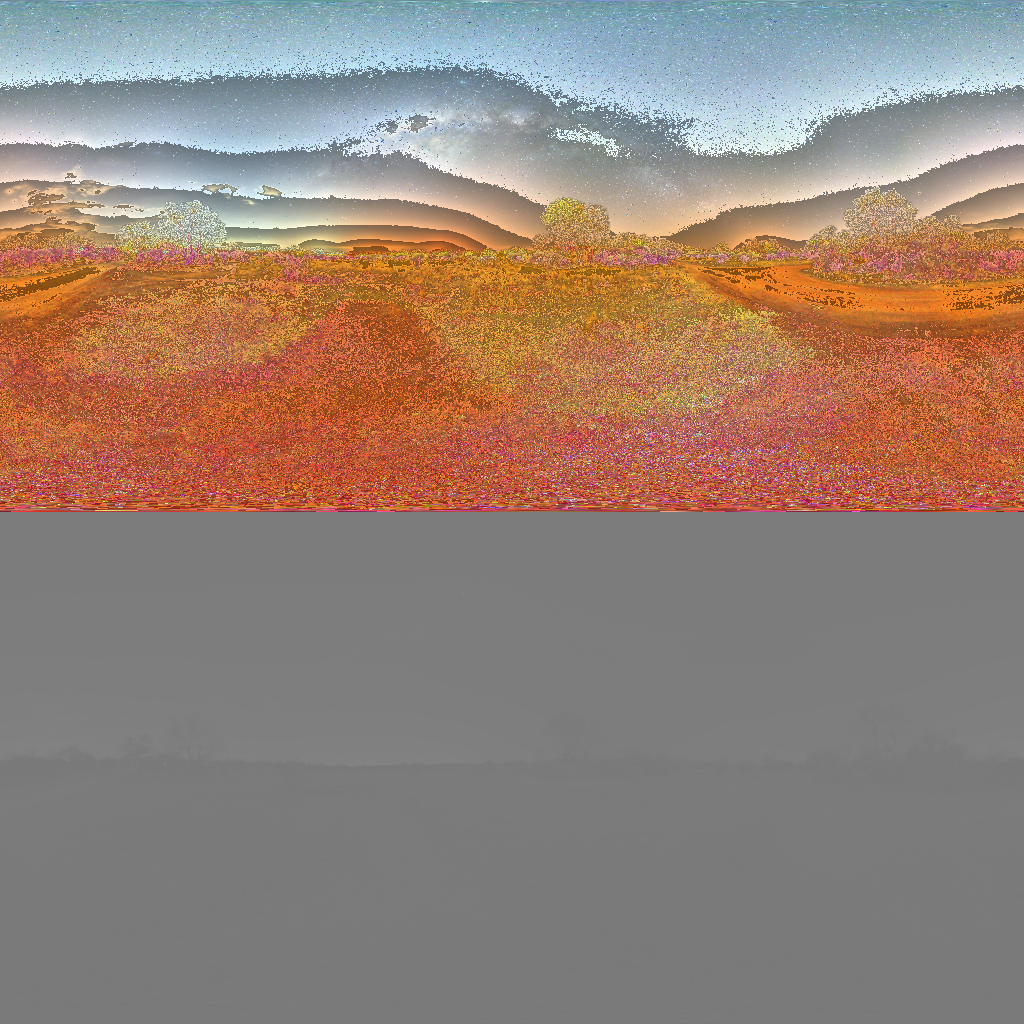
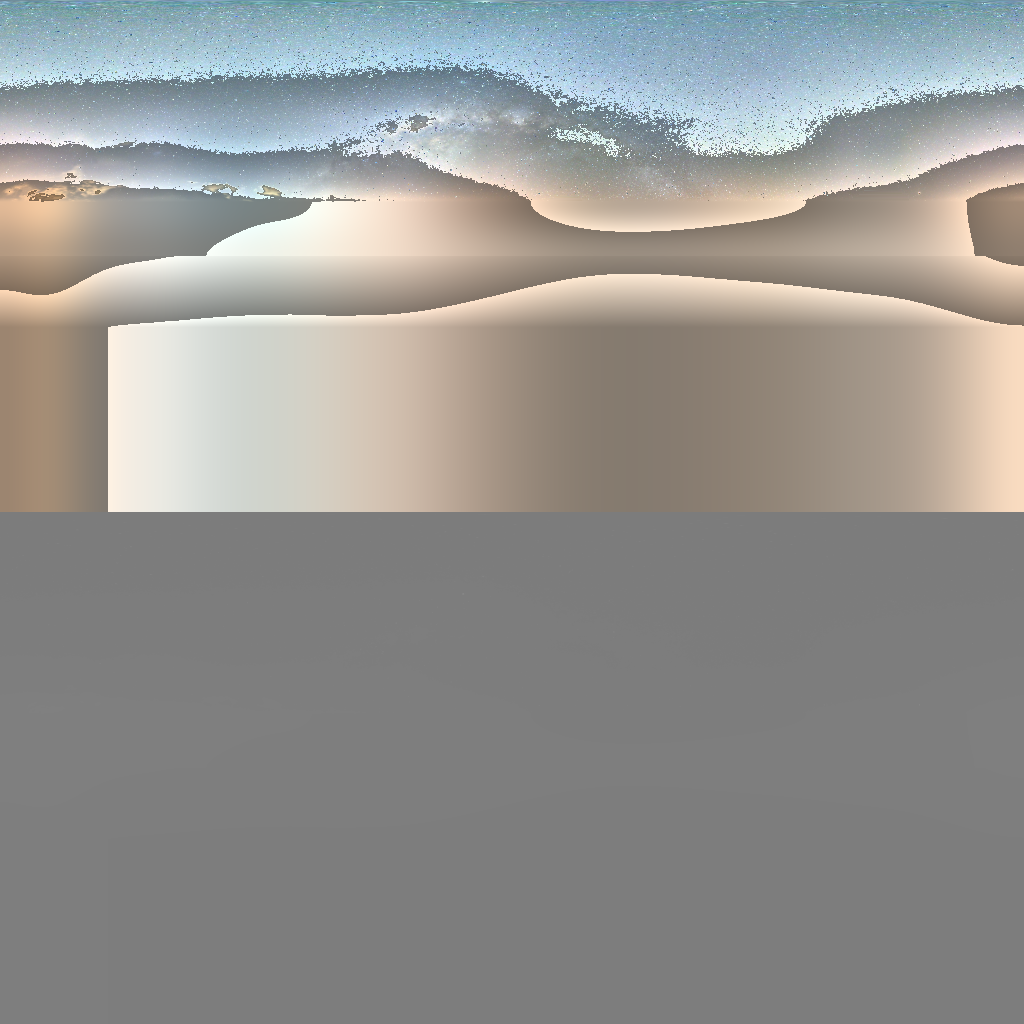
하늘에서 건물 제거, Supabase로 포스트잇 공유
- 마포 하늘을 건물 없는 해돋이 하늘로 교체, 모든 지역 하늘에서 지평선 아래 건물·나무·땅 제거
- 포스트잇 쓰기·수정·삭제·공감·신고를 Supabase 서버 함수로 연결 (30초마다 새로고침)
- 서버에서 욕설 필터, 하루 3장 제한, 신고 3회 숨김을 다시 검사
- 연결이 안 되면 기기에만 저장

Claude-Session: https://claude.ai/code/session_018BVTovwP8Kv17rptddpdNd

Changed region(s): [[0.0, 0.1875, 1.0, 0.5]]

diff --git a/index.html b/index.html
@@ -161,7 +161,7 @@
   <div class="sheet" role="dialog" aria-labelledby="reportTitle">
     <div class="row"><h2 id="reportTitle">이 포스트잇 신고하기</h2>
       <button class="close" data-close="reportScrim" aria-label="닫기"><svg width="18" height="18" viewBox="0 0 24 24" fill="none" stroke="currentColor" stroke-width="2.2" stroke-linecap="round" aria-hidden="true"><path d="M6 6l12 12"/><path d="M18 6L6 18"/></svg></button></div>
-    <p class="muted">신고한 포스트잇은 바로 내 화면에서 사라져요.</p>
+    <p class="muted">신고한 포스트잇은 바로 내 화면에서 사라지고, 세 명이 신고하면 모두에게서 내려가요.</p>
     <div class="regions" id="reasons">
       <button class="region" data-reason="abuse"><div><b>욕설·비하·혐오</b><span>기분 나쁜 말이나 그림이 있어요</span></div></button>
       <button class="region" data-reason="spam"><div><b>광고·도배</b><span>홍보, 링크, 같은 내용 반복</span></div></button>
@@ -219,33 +219,33 @@ var FONT = {}; FONTS.forEach(function(f){ FONT[f.id]=f; });
 function fontCss(tx, S){ var f = FONT[tx.f||'pen']||FONTS[0]; return (tx.s*S*f.k)+'px '+f.css; }
 
 var REGIONS = [
-  {id:'mapo', name:'서울 마포', scene:'한강 노을 호숫가', lat:37.556, lng:126.91,
+  {id:'mapo', name:'서울 마포', scene:'한강 가을 호숫가', lat:37.556, lng:126.91,
    sky:['#33416f','#f0a06a','#b8826a'], sun:[0.15,0.07,-1], sunCol:'#ffc98a', sunI:0.95, hemi:['#ffd0a0','#3d4a33'],
    fog:'#e2a985', fogN:28, fogF:240, ground:'#6a8549', grassBase:'#3f5a2c', grassTip:'#b7b45a', flower:'#f7e6a0', flowerP:0.05,
    water:'lake', deep:'#3f5a80', shallow:'#f1b98c', trees:46, treeKind:'autumn', motes:'firefly', lamp:true, bloom:0.55,
-   cut:13, flora:{common:52, tint:['#e8a03a','#f2c84b','#d9622e','#c4503a','#a8b44e','#e9b23f'], bush:22, bushf:10, rocks:8, flowers:14, plants:6, grassTint:'#efe2a8', clumps:1}, 
-   hdri:'venice_sunset_1k', rot:0.0764, elev:3.3, az:0.15, skyI:1.0, hor:[0.652,0.676,0.777], up:[0.384,0.565,0.991], low:[0.30,0.24,0.18], lightI:2.2, lightCol:[1,0.62,0.38], lightElev:12, exp:0.55, fogN2:30, fogF2:230,
+   cut:1.5, flora:{common:52, tint:['#e8a03a','#f2c84b','#d9622e','#c4503a','#a8b44e','#e9b23f'], bush:22, bushf:10, rocks:8, flowers:14, plants:6, grassTint:'#efe2a8', clumps:1}, 
+   hdri:'blouberg_sunrise_2_1k', rot:0.5325, elev:8.3, az:0.15, skyI:1.0, hor:[1.113,1.143,1.065], up:[0.488,0.562,0.767], low:[0.562,0.53,0.485], lightI:2.2, lightCol:[1,0.84,0.62], lightElev:14, exp:0.55, fogN2:30, fogF2:230,
    notes:[['한강 노을 보러 왔다가 들렀어요','y',0.1,4],['망원시장 떡볶이 최고','o',0.2,12],['오늘 퇴사했어요 후련하다','p',0.05,31],['다들 오늘도 수고했어','m',0.3,18],['연남동 산책 중','b',0.85,1],['내년엔 꼭 독립한다','y',0.4,7],['여기 앉아 있으니 좋다','m',0.15,9],['여름에 왔다 감','o',0.95,2]]},
   {id:'busan', name:'부산 해운대', scene:'해운대 밤바다', lat:35.163, lng:129.163,
    sky:['#0d1736','#3b4c86','#161d38'], sun:[-0.35,0.22,-1], sunCol:'#dfe6ff', sunI:0.35, hemi:['#6a7ab8','#1a1f2c'],
    fog:'#26315a', fogN:30, fogF:260, ground:'#3b5040', sand:'#b8a27c', grassBase:'#24352a', grassTip:'#55704e', flower:'#e8eaf6', flowerP:0.02,
    water:'sea', deep:'#0f2244', shallow:'#5b6ea6', trees:22, treeKind:'pine', motes:'firefly', lamp:true, bloom:0.9,
-   cut:13, flora:{pine:30, bush:16, rocks:16, plants:4, grassTint:'#8fa894', clumps:0.8}, 
-   hdri:'dikhololo_night_1k', rot:0.8877, elev:0.9, az:-0.3, skyI:1.0, hor:[0.222,0.173,0.124], up:[0.063,0.069,0.073], low:[0.03,0.02,0.015], lightI:0.35, lightCol:[0.7,0.78,1], lightElev:35, exp:0.75, grassI:1.4, fogN2:25, fogF2:200,
+   cut:1.5, flora:{pine:30, bush:16, rocks:16, plants:4, grassTint:'#8fa894', clumps:0.8}, 
+   hdri:'dikhololo_night_1k', rot:0.8877, elev:0.9, az:-0.3, skyI:1.0, hor:[0.221,0.199,0.179], up:[0.066,0.072,0.075], low:[0.102,0.096,0.087], lightI:0.35, lightCol:[0.7,0.78,1], lightElev:35, exp:0.75, grassI:1.4, fogN2:25, fogF2:200,
    notes:[['바다 소리 듣고 싶을 때 와요','b',0.1,22],['광안대교 불빛 보고 감','y',0.25,8],['부산 사람 손!','p',0.2,40],['서울에서 여행 왔어요','m',0.05,5],['파도멍 최고','o',0.5,14],['내년에 또 올게','y',0.9,3],['잠이 안 와서 나왔어요','b',0.15,11]]},
   {id:'gangneung', name:'강원 강릉', scene:'솔숲 새벽 안개', lat:37.751, lng:128.876,
    sky:['#8db5d8','#e9eff0','#bccbc2'], sun:[0.6,0.35,-0.7], sunCol:'#fff1d0', sunI:0.85, hemi:['#eaf2f4','#4c5e40'],
    fog:'#dde6e2', fogN:12, fogF:130, ground:'#56773f', grassBase:'#34502a', grassTip:'#8fae5c', flower:'#ffffff', flowerP:0.03,
    water:'none', trees:150, treeKind:'pine', motes:'pollen', lamp:false, bloom:0.25,
-   cut:13, flora:{pine:70, hero:1, bush:10, rocks:10, ferns:22, plants:14, grassTint:'#d6e8b0', clumps:1}, 
-   hdri:'kiara_1_dawn_1k', rot:0.0453, elev:3.7, az:0.6, skyI:0.9, hor:[0.95,0.78,1.3], up:[0.575,0.619,1.498], low:[0.25,0.22,0.2], lightI:1.8, lightCol:[1,0.72,0.52], lightElev:14, exp:0.55, fogN2:14, fogF2:115,
+   cut:1.5, flora:{pine:70, hero:1, bush:10, rocks:10, ferns:22, plants:14, grassTint:'#d6e8b0', clumps:1}, 
+   hdri:'kiara_1_dawn_1k', rot:0.0453, elev:3.7, az:0.6, skyI:0.9, hor:[1.706,1.252,2.081], up:[0.598,0.637,1.528], low:[0.932,0.642,1.022], lightI:1.8, lightCol:[1,0.72,0.52], lightElev:14, exp:0.55, fogN2:14, fogF2:115,
    notes:[['솔향 맡으면서 쉬어가요','m',0.1,16],['커피거리 다녀왔어요','o',0.2,6],['경포 일출 보러 새벽에 옴','y',0.3,25],['숲멍 중입니다','m',0.05,9],['다음엔 엄마랑 올래','p',0.6,13],['조용해서 좋다','b',0.2,4]]},
   {id:'jeju', name:'제주', scene:'유채꽃 들판과 바다', lat:33.45, lng:126.57,
    sky:['#4f97da','#cde4f4','#9fc3d6'], sun:[0.45,0.6,-0.6], sunCol:'#fff6dc', sunI:1.0, hemi:['#dcefff','#5d7a3a'],
    fog:'#cfe1ec', fogN:40, fogF:300, ground:'#76994a', sand:'#d8c79c', grassBase:'#4d6e2e', grassTip:'#9cbc55', flower:'#ffd93a', flowerP:0.55,
    water:'farsea', deep:'#1f5f9a', shallow:'#8fc9e6', trees:14, treeKind:'round', motes:'pollen', lamp:false, bloom:0.3,
-   cut:13, flora:{common:22, tint:['#7fb24a','#93c25a','#6aa242'], hero:1, bushf:24, rocks:14, rockTint:'#6b6b70', flowers:40, grassTint:'#ffffff', clumps:0.9}, 
-   hdri:'rooitou_park_1k', rot:0.0328, elev:10.4, az:0.45, skyI:2.6, hor:[0.391,0.553,0.801], up:[0.26,0.42,0.88], low:[0.15,0.2,0.06], lightI:3.0, lightCol:[1,0.96,0.6], lightElev:22, exp:0.5, grassI:0.6, fogN2:40, fogF2:260,
+   cut:1.5, flora:{common:22, tint:['#7fb24a','#93c25a','#6aa242'], hero:1, bushf:24, rocks:14, rockTint:'#6b6b70', flowers:40, grassTint:'#ffffff', clumps:0.9}, 
+   hdri:'rooitou_park_1k', rot:0.0328, elev:10.4, az:0.45, skyI:2.6, hor:[0.31,0.481,0.848], up:[0.26,0.42,0.88], low:[0.15,0.222,0.378], lightI:3.0, lightCol:[1,0.96,0.6], lightElev:22, exp:0.5, grassI:0.6, fogN2:40, fogF2:260,
    notes:[['유채꽃 냄새 나는 것 같아','y',0.05,19],['한 달 살기 3주차','m',0.2,8],['귤 먹고 힘내세요','o',0.1,33],['오름 올라갔다 왔어요','b',0.3,6],['바람 많이 부는 날','m',0.7,2],['제주 또 오고 싶다','p',0.15,15],['혼자 여행 첫날','y',0.4,10]]}
 ];
 
@@ -416,7 +416,7 @@ function makeWater(){
   uniformsList.push(u);
   var m = new THREE.ShaderMaterial({ uniforms:u,
     vertexShader:'varying vec3 wp; void main(){ vec4 w=modelMatrix*vec4(position,1.); wp=w.xyz; gl_Position=projectionMatrix*viewMatrix*w; }',
-    fragmentShader:EQ+' uniform float t; uniform float hasEnv; uniform vec3 deep,shallow,sunDir,sunCol; '+fogPars+' varying vec3 wp; void main(){ vec3 v=normalize(cameraPosition-wp); float w=sin(wp.x*1.3+t*1.1)*.5+sin(wp.z*1.7-t*.8)*.5+sin((wp.x+wp.z)*3.3+t*1.9)*.25+sin(wp.x*7.+wp.z*5.-t*3.)*.1; vec3 n=normalize(vec3(w*.045,1.,w*.035)); float fr=0.04+0.96*pow(1.-max(dot(v,n),0.),5.); vec3 r=reflect(-v,n); r.y=max(abs(r.y),0.24); vec3 refl = hasEnv>.5 ? envAt(r) : mix(shallow,deep,.3); vec3 c=mix(deep*0.35, refl, clamp(fr*1.6+0.12,0.,1.)); c+=sunCol*pow(max(dot(r,sunDir),0.),220.)*2.; float f=smoothstep(fogN,fogF,length(wp-cameraPosition)); gl_FragColor=vec4(mix(c,fogC,f),1.);\n'+OUT+'}' });
+    fragmentShader:EQ+' uniform float t; uniform float hasEnv; uniform vec3 deep,shallow,sunDir,sunCol; '+fogPars+' varying vec3 wp; void main(){ vec3 v=normalize(cameraPosition-wp); float w=sin(wp.x*1.3+t*1.1)*.5+sin(wp.z*1.7-t*.8)*.5+sin((wp.x+wp.z)*3.3+t*1.9)*.25+sin(wp.x*7.+wp.z*5.-t*3.)*.1; vec3 n=normalize(vec3(w*.045,1.,w*.035)); float fr=0.04+0.96*pow(1.-max(dot(v,n),0.),5.); vec3 r=reflect(-v,n); r.y=max(abs(r.y),0.04); vec3 refl = hasEnv>.5 ? envAt(r) : mix(shallow,deep,.3); vec3 c=mix(deep*0.35, refl, clamp(fr*1.6+0.12,0.,1.)); c+=sunCol*pow(max(dot(r,sunDir),0.),220.)*2.; float f=smoothstep(fogN,fogF,length(wp-cameraPosition)); gl_FragColor=vec4(mix(c,fogC,f),1.);\n'+OUT+'}' });
   m.userData.water = true;
   var w = new THREE.Mesh(new THREE.PlaneGeometry(1000,1000,1,1), m);
   w.rotation.x = -Math.PI/2; w.position.y = WATER;
@@ -761,7 +761,7 @@ function regionNotes(){
   return seeded.concat(mine).filter(function(n){ return !hid[n.id]; }).map(function(n){ if(hearts[n.id]){ n.h=(n.h||0)+1; n.liked=true; } return n; });
 }
 function saveMine(){
-  var list = noteMeshes.map(function(m){ return m.userData.note; }).filter(function(n){ return n.mine; })
+  var list = noteMeshes.map(function(m){ return m.userData.note; }).filter(function(n){ return n.mine && !n.server; })
     .map(function(n){ return {id:n.id,c:n.c,age:0,h:n.liked?Math.max(0,(n.h||0)-1):(n.h||0),x:n.x,y:n.y,r:n.r,strokes:n.strokes,texts:n.texts}; });
   store.set(mineKey(), list);
 }
@@ -791,6 +791,7 @@ function build(){
   makeWindow(world);
   world.add(makeMotes());
   regionNotes().forEach(addNoteMesh);
+  syncSig = ''; syncRegion(true);
   loadEnv();
   if(bloom){ bloom.strength = cfg.bloom; bloom.threshold = 0.85; }
   $('locName').textContent = cfg.name+' 창';
@@ -919,6 +920,62 @@ function usedToday(){ var u = store.get('yurichang-day'); return (u && u.d===tod
 function useOne(){ store.set('yurichang-day', {d:today(), n:usedToday()+1}); }
 function leftToday(){ return Math.max(0, DAILY-usedToday()); }
 function hiddenKey(){ return 'yurichang-hidden:'+cfg.id; }
+
+
+// ---------- server (Supabase) ----------
+// Notes are shared through Supabase. The publishable key is meant to be public; the database only
+// allows reading visible notes, and every write goes through checked server functions.
+var SB_URL = 'https://dhdmynqrbtiqbvmrvflz.supabase.co', SB_KEY = 'sb_publishable_ioOTpxXCCmi9dN83WMlKJw_8kjCJ8_t';
+var online = null;   // null = not tried yet, true/false after the first request
+function deviceId(){
+  var d = store.get('yurichang-device');
+  if(!d){ d = (window.crypto && crypto.randomUUID) ? crypto.randomUUID() : ('d'+Date.now().toString(36)+Math.random().toString(36).slice(2)+Math.random().toString(36).slice(2)); store.set('yurichang-device', d); }
+  return d;
+}
+function tokens(){ return store.get('yurichang-tokens') || {}; }
+function setToken(id, t){ var all = tokens(); if(t) all[id]=t; else delete all[id]; store.set('yurichang-tokens', all); }
+function sbFetch(path, opt){
+  opt = opt || {}; opt.headers = Object.assign({ apikey:SB_KEY, 'Content-Type':'application/json' }, opt.headers||{});
+  return fetch(SB_URL+path, opt).then(function(r){
+    return r.text().then(function(txt){
+      var j = null; try{ j = txt ? JSON.parse(txt) : null; }catch(_){}
+      if(!r.ok){ var e = new Error((j && j.message) || ('http_'+r.status)); e.server = true; throw e; }
+      online = true; return j;
+    });
+  }, function(err){ online = false; err.network = true; throw err; });
+}
+function sbRpc(fn, args){ return sbFetch('/rest/v1/rpc/'+fn, {method:'POST', body:JSON.stringify(args)}); }
+var SERVER_MSG = { daily_limit:'오늘은 '+3+'장을 다 붙였어요. 내일 또 와요', filtered_abuse:'욕설이나 비하하는 말은 붙일 수 없어요', filtered_link:'링크나 홍보는 붙일 수 없어요',
+  filtered_phone:'전화번호 같은 개인정보는 붙일 수 없어요', busy:'지금 사람이 많아요. 잠시 후 다시 붙여주세요', too_big:'그림이 너무 커요. 조금 줄여주세요', not_owner:'내가 붙인 포스트잇만 고칠 수 있어요' };
+function serverMsg(e){ for(var k in SERVER_MSG){ if(e && e.message && e.message.indexOf(k)>=0) return SERVER_MSG[k]; } return '잠시 문제가 생겼어요. 다시 시도해 주세요'; }
+function fromServer(row){
+  var days = (Date.now() - new Date(row.created_at).getTime())/86400000;
+  return { id:row.id, server:true, c:row.c, x:row.x, y:row.y, r:row.r, strokes:row.strokes||[], texts:row.texts||[], h:row.hearts||0,
+           age:Math.min(1, Math.max(0, days/30)), mine: !!tokens()[row.id], sig: row.updated_at+'|'+row.hearts };
+}
+var syncSig = '', syncing = false;
+function syncRegion(force){
+  if(syncing || !world) return; syncing = true;
+  var region = cfg.id;
+  sbFetch('/rest/v1/notes?select=id,x,y,r,c,strokes,texts,hearts,created_at,updated_at&region=eq.'+region+'&order=created_at.asc&limit=150')
+  .then(function(rows){
+    syncing = false;
+    if(region !== cfg.id || !rows) return;
+    var hid = store.get(hiddenKey()) || {}, hs = store.get('yurichang-h:'+cfg.id) || {};
+    rows = rows.filter(function(r){ return !hid[r.id]; });
+    var sig = rows.map(function(r){ return r.id+r.updated_at+r.hearts; }).join(',');
+    if(sig === syncSig && !force) return;
+    syncSig = sig;
+    noteMeshes.filter(function(m){ return m.userData.note.server; }).forEach(function(m){
+      if(reading===m) return; world.remove(m); m.geometry.dispose(); m.material.map.dispose(); m.material.dispose(); noteMeshes.splice(noteMeshes.indexOf(m),1);
+    });
+    rows.forEach(function(r){
+      if(reading && reading.userData.note.id===r.id) return;
+      var n = fromServer(r); if(hs[n.id]) n.liked = true; addNoteMesh(n, noteMeshes.length);
+    });
+  }, function(){ syncing = false; });
+}
+setInterval(function(){ if(!document.hidden && !modal && online!==false) syncRegion(false); }, 30000);
 
 // ---------- free-form editor ----------
 var ed = { c:'y', strokes:[], texts:[], hist:[], tool:'pen', ink:INKS[0].hex, size:'m', font:'pen', sel:null, drag:null, rot:null, cur:null, editing:null, inl:null, down:null };
@@ -1078,16 +1135,34 @@ $('stick').addEventListener('click', function(){
   for(var bi=0; bi<ed.texts.length; bi++){ var ck=checkText(ed.texts[bi].t); ed.texts[bi].bad=!ck.ok; if(!ck.ok){ ed.sel=bi; edDraw(); toast(ck.why+' · 빨간 줄 글자를 고쳐주세요'); return; } }
   ed.sel=null;
   ed.texts.forEach(function(t){ delete t.bad; });
+  var btn = $('stick');
   if(ed.editing){
-    var n = ed.editing.userData.note; n.c=ed.c; n.strokes=ed.strokes; n.texts=ed.texts; refreshNote(ed.editing); saveMine();
+    var em = ed.editing, n = em.userData.note, strokes = ed.strokes, texts = ed.texts, c = ed.c;
+    if(n.server){
+      btn.disabled = true;
+      sbRpc('edit_note', {p_id:n.id, p_token:tokens()[n.id]||'', p_c:c, p_strokes:strokes, p_texts:texts}).then(function(){
+        n.c=c; n.strokes=strokes; n.texts=texts; refreshNote(em); closeModal('composeScrim'); toast('포스트잇을 고쳤어요');
+      }, function(e){ toast(e.network ? '인터넷 연결을 확인해 주세요' : serverMsg(e)); }).then(function(){ btn.disabled=false; });
+      return;
+    }
+    n.c=c; n.strokes=strokes; n.texts=texts; refreshNote(em); saveMine();
     closeModal('composeScrim'); toast('포스트잇을 고쳤어요'); return;
   }
   if(!pending) return;
   if(leftToday()<=0){ closeModal('composeScrim'); toast('오늘은 '+DAILY+'장을 다 붙였어요. 내일 또 와요'); return; }
-  useOne();
-  var nn = {id:cfg.id+'-u'+Date.now(), c:ed.c, age:0, h:0, x:pending.x, y:pending.y, r:(Math.random()-0.5)*0.24, strokes:ed.strokes, texts:ed.texts, mine:true};
-  addNoteMesh(nn, noteMeshes.length); saveMine();
-  closeModal('composeScrim'); toast(cfg.name+' 창에 붙였어요 · 오늘 '+leftToday()+'장 남았어요');
+  var nn = {id:cfg.id+'-u'+Date.now(), c:ed.c, age:0, h:0, x:+pending.x.toFixed(3), y:+pending.y.toFixed(3), r:+((Math.random()-0.5)*0.24).toFixed(3), strokes:ed.strokes, texts:ed.texts, mine:true};
+  var region = cfg.id;
+  function keepLocal(msg){ useOne(); addNoteMesh(nn, noteMeshes.length); saveMine(); closeModal('composeScrim'); toast(msg); }
+  btn.disabled = true;
+  sbRpc('post_note', {p_device:deviceId(), p_region:region, p_x:nn.x, p_y:nn.y, p_r:nn.r, p_c:nn.c, p_strokes:nn.strokes, p_texts:nn.texts}).then(function(res){
+    useOne(); setToken(res.id, res.token);
+    if(region===cfg.id){ nn.id = res.id; nn.server = true; addNoteMesh(nn, noteMeshes.length); }
+    if(typeof res.left==='number'){ var u = store.get('yurichang-day'); store.set('yurichang-day', {d:today(), n:Math.max(DAILY-res.left, u&&u.d===today()?u.n:0)}); }
+    closeModal('composeScrim'); toast(cfg.name+' 창에 붙였어요 · 오늘 '+leftToday()+'장 남았어요');
+  }, function(e){
+    if(e.network) keepLocal('연결이 안 돼서 내 휴대폰에만 붙였어요');
+    else { if(e.message && e.message.indexOf('daily_limit')>=0) store.set('yurichang-day', {d:today(), n:DAILY}); toast(serverMsg(e)); }
+  }).then(function(){ btn.disabled = false; edState(); });
 });
 
 // ---------- reader ----------
@@ -1113,6 +1188,8 @@ $('heartBtn').addEventListener('click', function(){
   if(!reading) return; var n = reading.userData.note; if(n.liked) return;
   n.liked=true; n.h=(n.h||0)+1;
   var hs = store.get('yurichang-h:'+cfg.id)||{}; hs[n.id]=1; store.set('yurichang-h:'+cfg.id, hs);
+  var hm = reading;
+  if(n.server) sbRpc('heart_note', {p_id:n.id, p_device:deviceId()}).then(function(cnt){ if(typeof cnt==='number'){ n.h=cnt; refreshNote(hm); } }, function(){});
   refreshNote(reading);
   $('heartBtn').textContent='♥ 공감했어요'; $('readerMeta').textContent='♥ '+n.h;
 });
@@ -1121,8 +1198,10 @@ var delArm = false;
 $('delBtn').addEventListener('click', function(){
   if(!delArm){ delArm=true; $('delBtn').textContent='한 번 더 누르면 떼어내요'; setTimeout(function(){ delArm=false; $('delBtn').textContent='떼어내기'; },2500); return; }
   delArm=false; $('delBtn').textContent='떼어내기';
-  var m=reading; world.remove(m); m.geometry.dispose(); m.material.map.dispose(); m.material.dispose();
-  noteMeshes.splice(noteMeshes.indexOf(m),1); saveMine(); closeModal('readerScrim'); toast('포스트잇을 떼어냈어요');
+  var m=reading, n=m.userData.note;
+  function drop(){ world.remove(m); m.geometry.dispose(); m.material.map.dispose(); m.material.dispose(); noteMeshes.splice(noteMeshes.indexOf(m),1); saveMine(); closeModal('readerScrim'); toast('포스트잇을 떼어냈어요'); }
+  if(n.server){ sbRpc('delete_note', {p_id:n.id, p_token:tokens()[n.id]||''}).then(function(){ setToken(n.id, null); drop(); }, function(e){ toast(e.network ? '인터넷 연결을 확인해 주세요' : serverMsg(e)); }); return; }
+  drop();
 });
 
 $('reportBtn').addEventListener('click', function(){ closeModal('readerScrim'); openModal('reportScrim'); });
@@ -1130,6 +1209,7 @@ Array.prototype.forEach.call(document.querySelectorAll('[data-reason]'), functio
   b.addEventListener('click', function(){
     var m = reading; if(!m) return;
     var hid = store.get(hiddenKey())||{}; hid[m.userData.note.id] = b.getAttribute('data-reason'); store.set(hiddenKey(), hid);
+    if(m.userData.note.server) sbRpc('report_note', {p_id:m.userData.note.id, p_device:deviceId(), p_reason:b.getAttribute('data-reason')}).catch(function(){});
     world.remove(m); noteMeshes.splice(noteMeshes.indexOf(m),1);
     closeModal('reportScrim'); toast('신고했어요. 이 포스트잇은 이제 안 보여요');
   });

diff --git a/README.md b/README.md
@@ -13,15 +13,29 @@
 정적 파일만으로 동작합니다. GitHub Pages에서 `main` 브랜치의 루트(`/`)를 배포하면 됩니다.
 로컬에서는 `python3 -m http.server` 후 `http://localhost:8000` 으로 열어주세요.
 
-## 현재 한계 (서버 연결 전)
+## 서버 (Supabase)
 
-- 포스트잇, 공감, 신고, 하루 제한은 지금은 각자 기기(localStorage)에만 저장됩니다.
-- 실제 서비스에서는 서버(예: Supabase)에서 저장, 욕설 필터, 신고 누적 숨김, 하루 제한을 다시 검사해야 합니다.
+포스트잇은 Supabase(`yurichang` 프로젝트, 서울 리전)에 저장되어 모두에게 보입니다. 30초마다 새 포스트잇을 불러옵니다.
+
+- 누구나 숨겨지지 않은 포스트잇만 읽을 수 있고, 기기 ID와 수정 키는 읽을 수 없습니다.
+- 쓰기·수정·삭제·공감·신고는 모두 서버 함수(`post_note`, `edit_note`, `delete_note`, `heart_note`, `report_note`)를 통해서만 됩니다.
+- 서버에서 다시 검사: 욕설·링크·전화번호 필터, 기기당 하루 3장, 내용 크기 제한, 서버 전체 분당 60장 제한
+- 수정·삭제는 글을 붙인 기기에 저장된 비밀 키가 있어야만 됩니다.
+- 서로 다른 기기 3곳에서 신고하면 모두에게서 내려갑니다. 공감은 기기당 1번입니다.
+- 서버에 연결이 안 되면 그 기기에만 저장합니다.
+
+스키마는 `supabase/schema.sql` 에 있습니다.
+
+### 알려진 한계
+
+- 기기 ID는 브라우저에 저장되므로, 저장공간을 지우면 하루 제한이 초기화됩니다. 더 강하게 막으려면 Supabase 익명 로그인이나 IP 기반 제한(Edge Function)을 추가해야 합니다.
+- 손글씨·그림은 글자 필터로 걸러지지 않으므로 신고로 관리합니다.
+- 화면의 예시 포스트잇(지역별 몇 장)은 페이지에 들어 있는 샘플입니다.
 
 ## 사용한 에셋 (모두 CC0)
 
 - 3D 모델: [Quaternius — Stylized Nature MegaKit](https://quaternius.com/packs/stylizednaturemegakit.html)
-- 하늘 HDRI: [Poly Haven](https://polyhaven.com) (venice_sunset, dikhololo_night, kiara_1_dawn, rooitou_park)
+- 하늘 HDRI: [Poly Haven](https://polyhaven.com) (blouberg_sunrise_2, dikhololo_night, kiara_1_dawn, rooitou_park) — 지평선 아래 건물·나무·땅은 지우고 하늘만 남겨 PNG(RGBE)로 변환
 - 창틀 텍스처: [ambientCG — Bark014](https://ambientcg.com/view?id=Bark014)
 - 3D 엔진: [three.js](https://threejs.org) r128 (MIT)
 - 글씨체: Google Fonts (나눔펜, 개구, 감자꽃, 하이멜로디, 주아, 고운바탕 — OFL)
